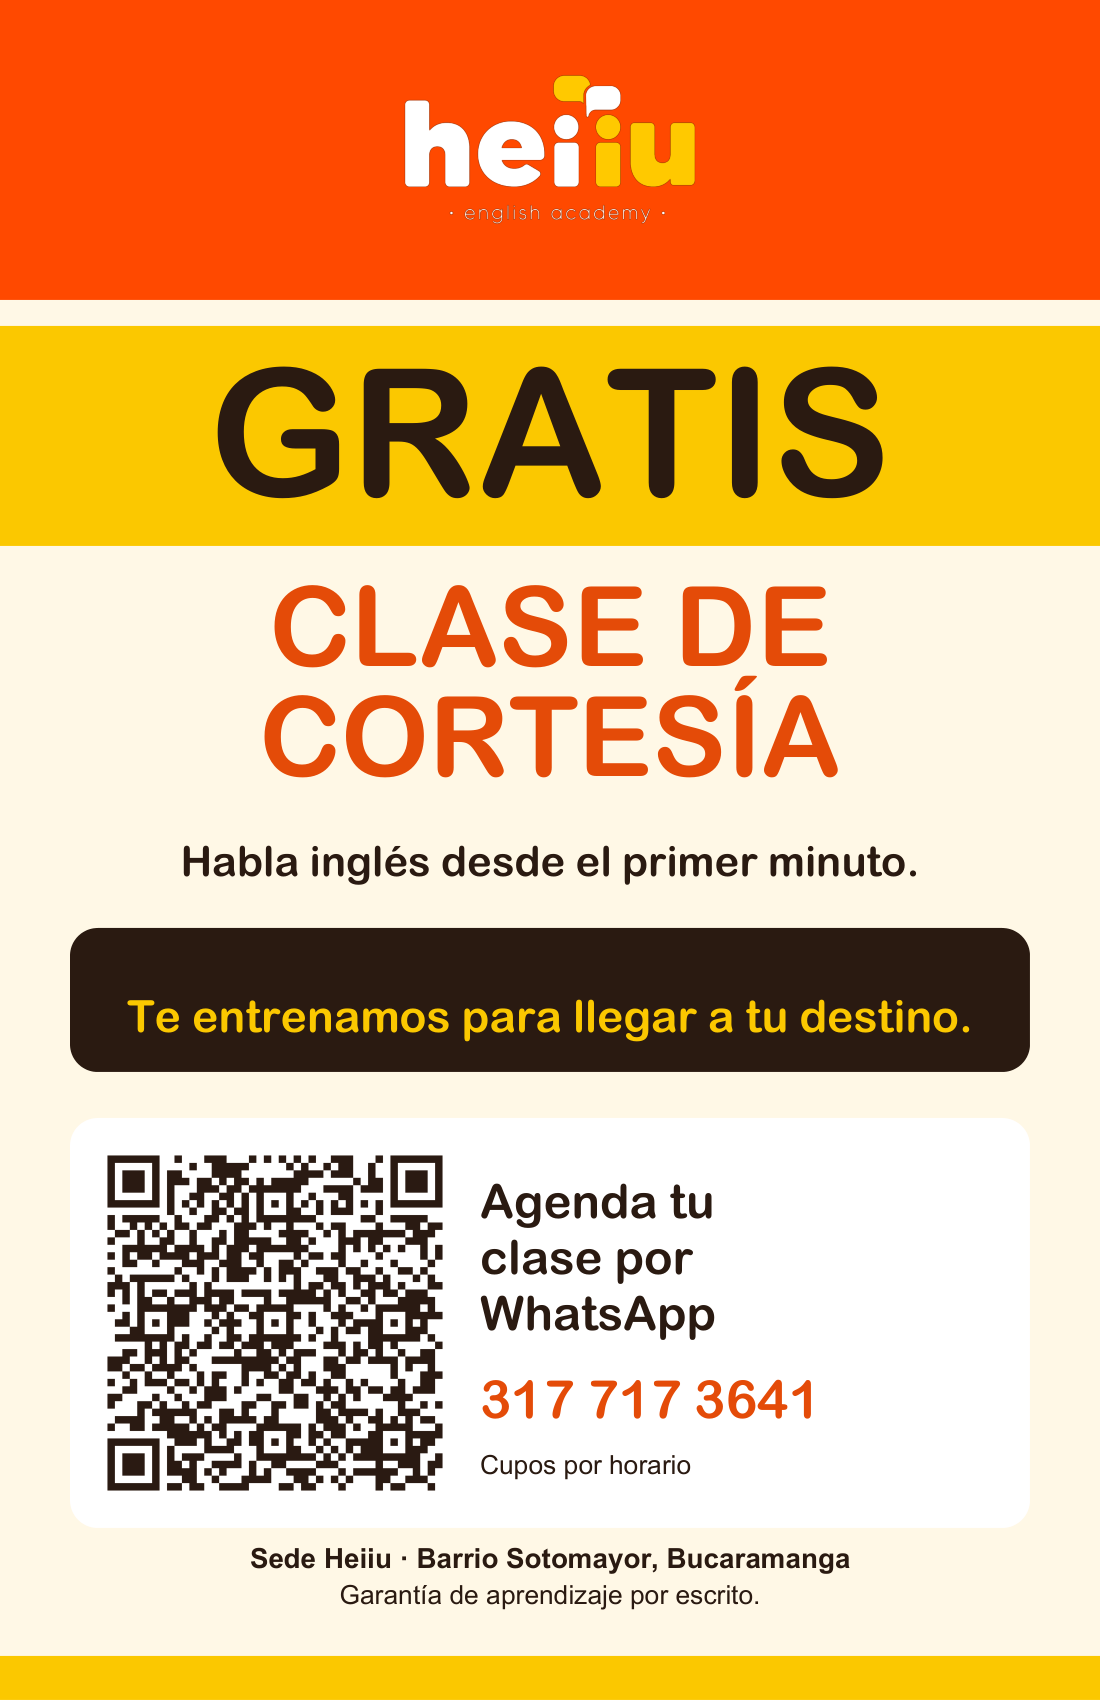
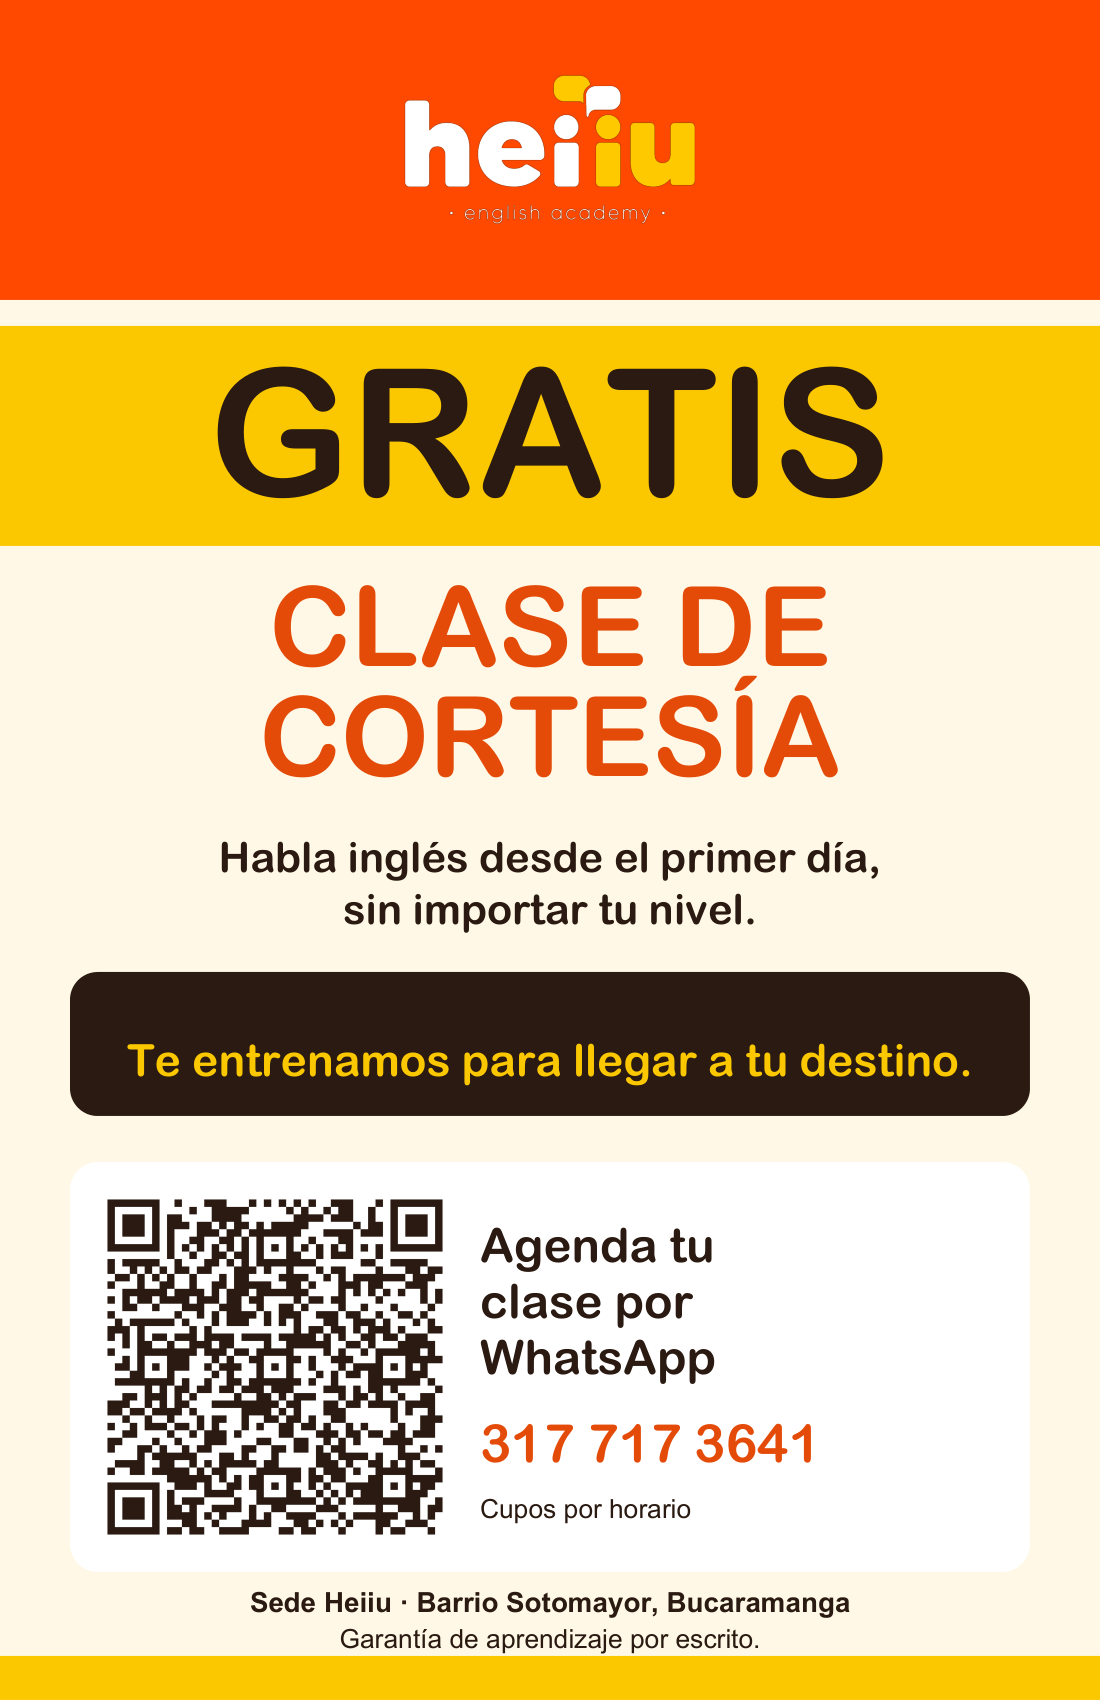
Volante clase de cortesia: frase 'Habla ingles desde el primer dia, sin importar tu nivel'

Changed region(s): [[0.0618, 0.4988, 0.9582, 0.9665]]

diff --git a/generadores/comercial/gen_volante_clase_cortesia.py b/generadores/comercial/gen_volante_clase_cortesia.py
@@ -77,9 +77,10 @@ def volante(c, ox=0, oy=0):
     y -= 1.65 * inch
     c.setFont('Rounded', 40); c.setFillColor(NARANJA)
     c.drawCentredString(W / 2, y, 'CLASE DE'); y -= 0.55 * inch
-    c.drawCentredString(W / 2, y, 'CORTESÍA'); y -= 0.5 * inch
+    c.drawCentredString(W / 2, y, 'CORTESÍA'); y -= 0.48 * inch
     c.setFont('Rounded', 15); c.setFillColor(TINTA)
-    c.drawCentredString(W / 2, y, 'Habla inglés desde el primer minuto.'); y -= 0.36 * inch
+    c.drawCentredString(W / 2, y, 'Habla inglés desde el primer día,'); y -= 0.26 * inch
+    c.drawCentredString(W / 2, y, 'sin importar tu nivel.'); y -= 0.34 * inch
     # caja oscura: una sola frase
     c.setFillColor(TINTA); c.roundRect(M, y - 0.62 * inch, W - 2 * M, 0.72 * inch, 10, stroke=0, fill=1)
     c.setFont('Rounded', 16); c.setFillColor(AMARILLO)
